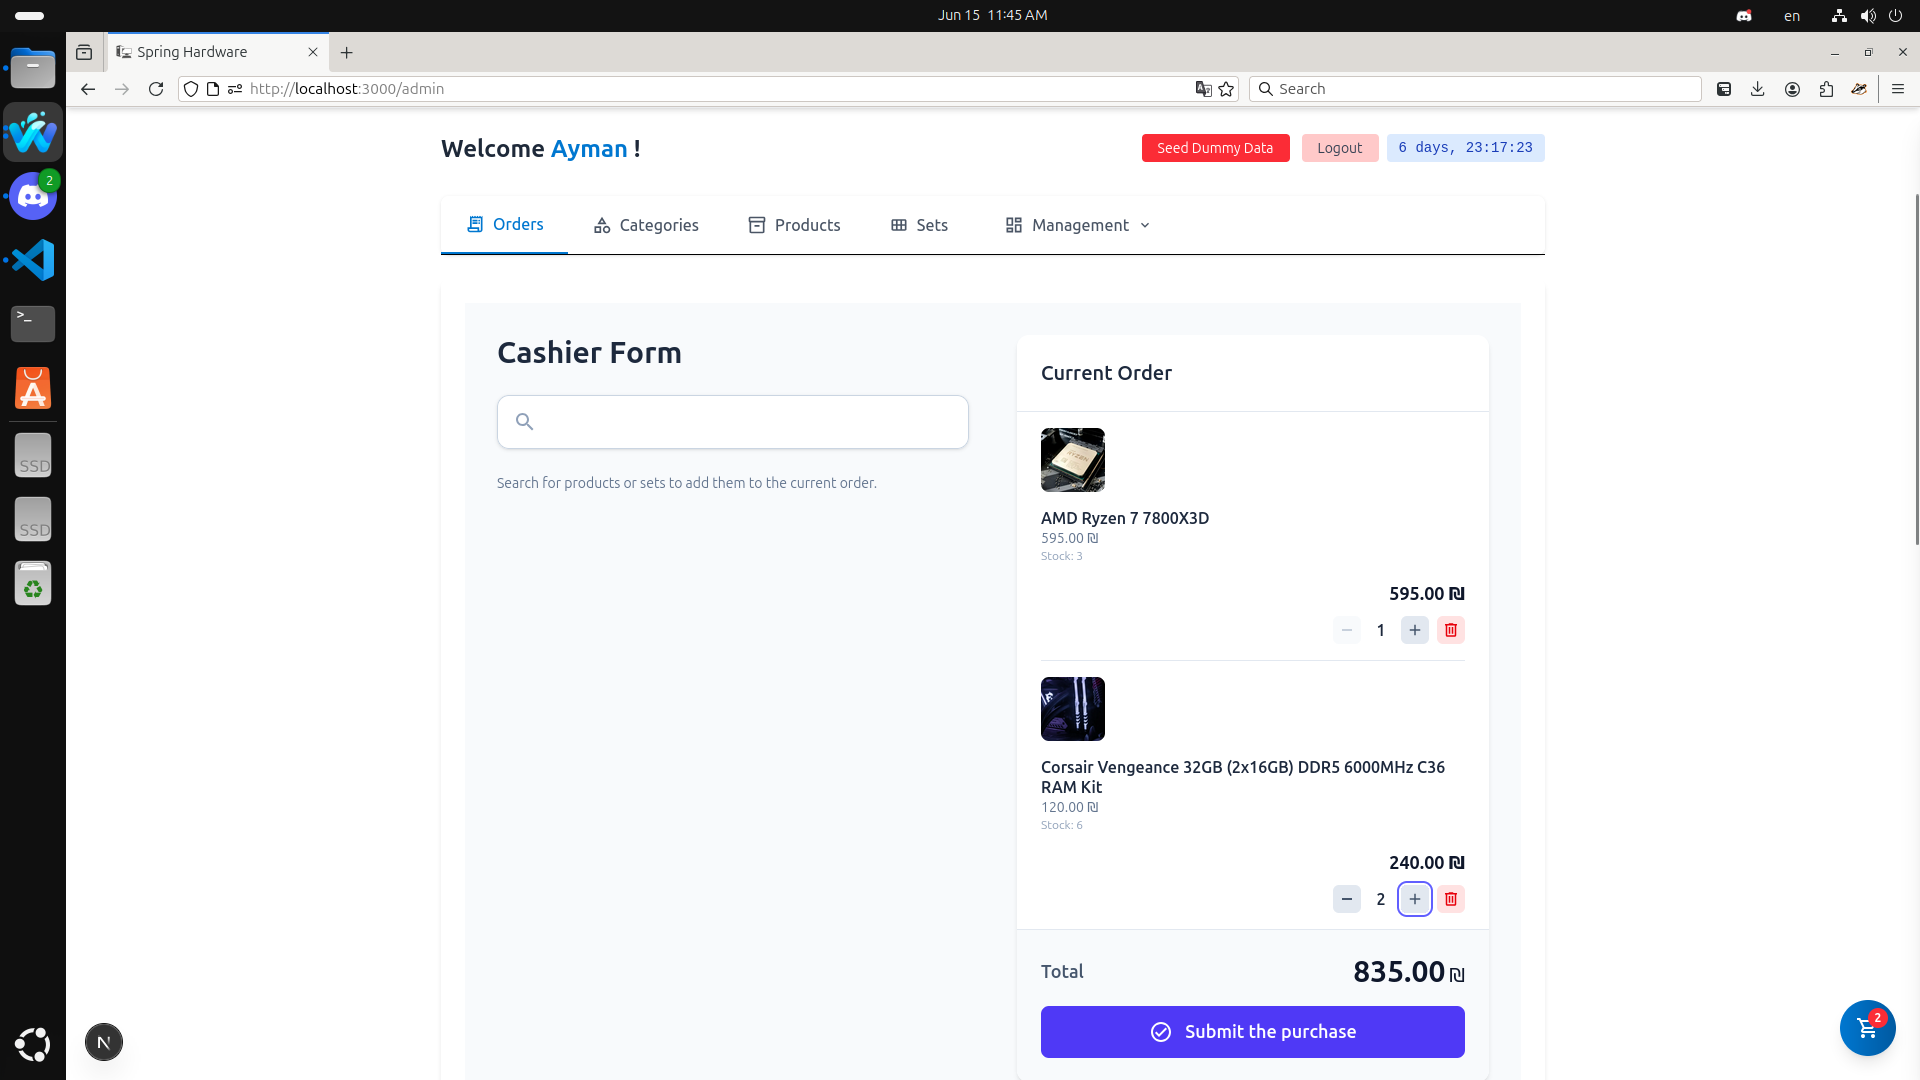
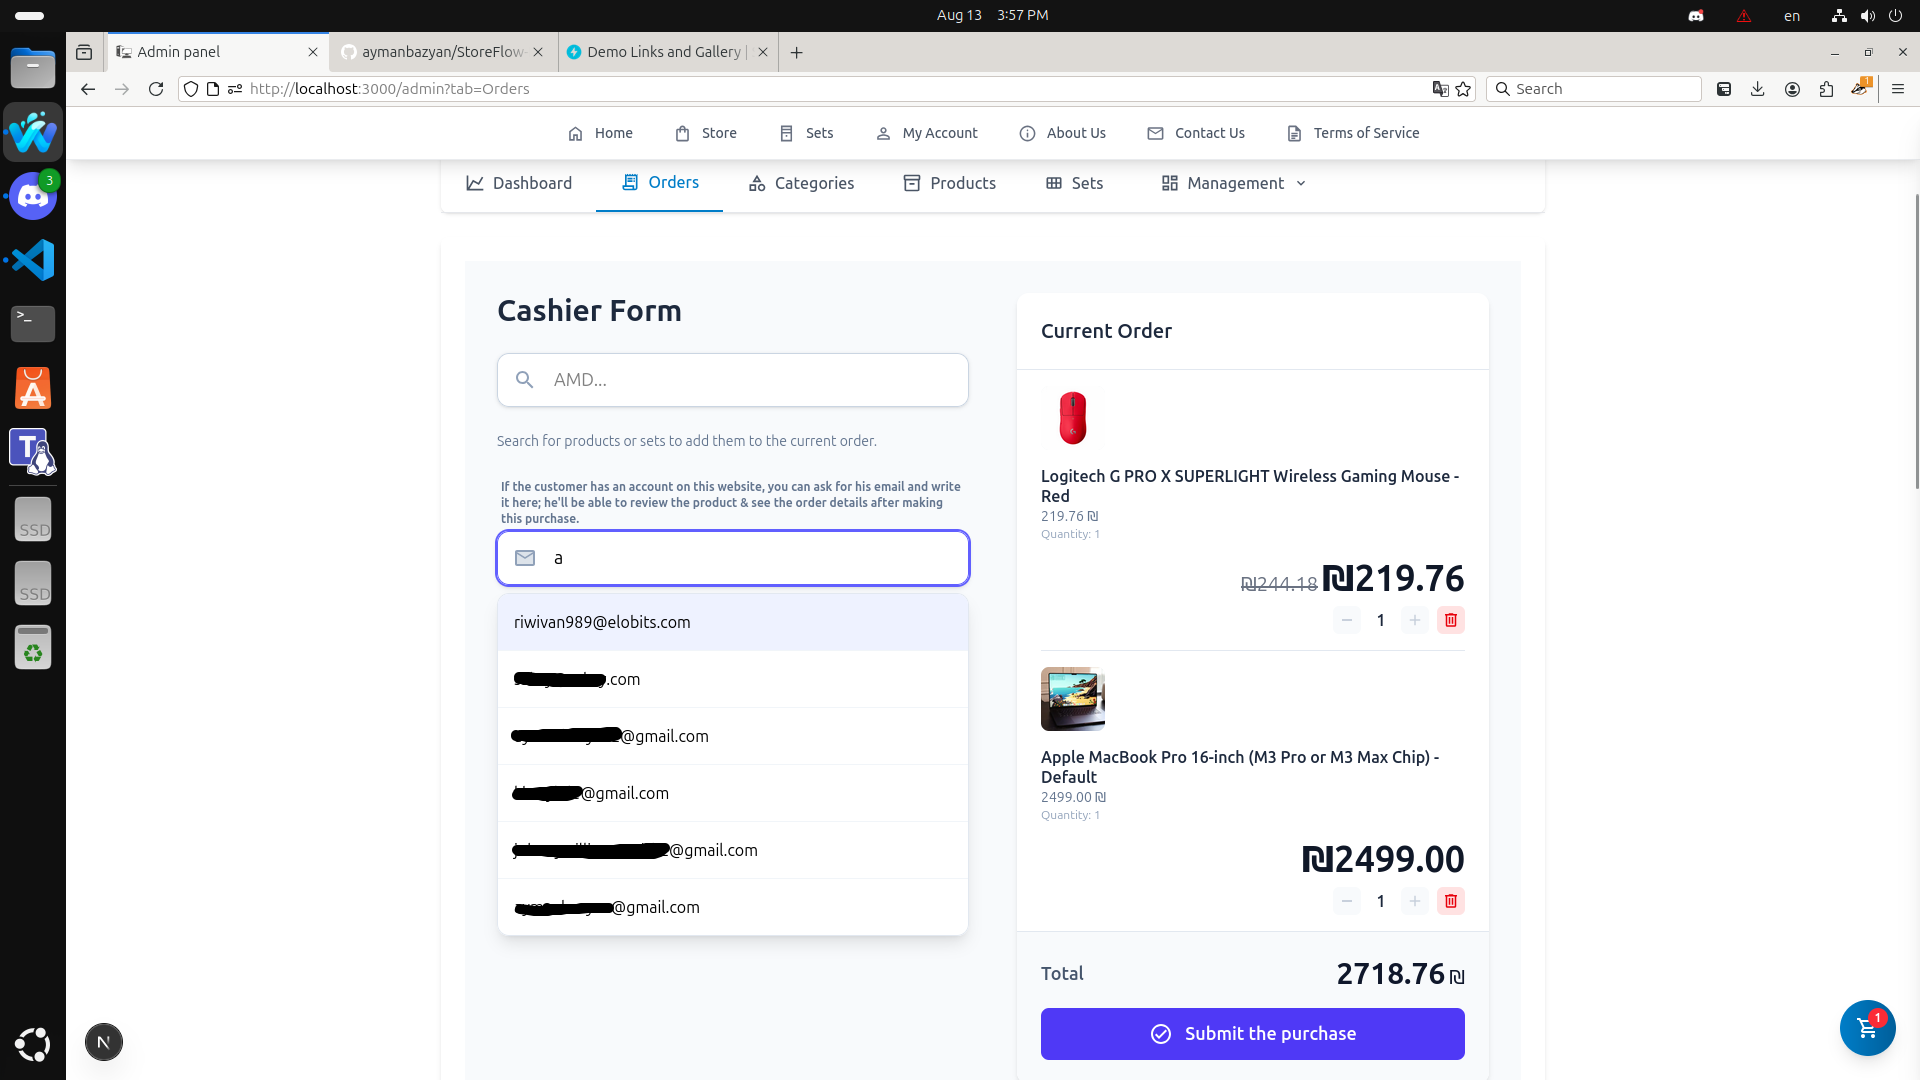
general improvements

diff --git a/docs/01-Overview/02-Tech-Stack-Concepts.md b/docs/01-Overview/02-Tech-Stack-Concepts.md
@@ -4,7 +4,7 @@
 
 - Frontend + Backend: Next.js v15.2.3 (App Router)
 
-- Database: PostgreSQL v16.9 + Prisma v6.13.0
+- Database: PostgreSQL v16.9 + Prisma v6.14.0
 
 - Styling: Tailwind CSS v4
 
@@ -545,10 +545,8 @@ model DiscountCodes {
   orders               Orders[]  @relation("OrderDiscountCode")
 
   @@index([slug])
-  @@index([is_active])
-  @@index([expires_at])
-  @@index([discount_type])
 }
+
 ```
 
 </details>
@@ -610,7 +608,7 @@ This project uses the **Next.js App Router**, which organizes the application fi
       - `backup/`: API endpoint to trigger a server backup.
       - `healthcheck/`: Slight API endpoint to check if the server is running (used in the mobile app).
       - `uploads/[...path]`: API endpoint to get uploaded files.
-      <!-- - `cron/`: Endpoints designed to be called by scheduled jobs (e.g., cleanup tasks). -->
+      - `cron/`: Endpoints designed to be called by scheduled jobs (e.g., cleanup tasks).
       - `/timeouts`: Endpoint to timeout Ips.
       - `tables/`: A generic, dynamic API for performing CRUD operations on database tables, likely used by the admin panel.
       - `user/`: API routes for user-specific actions like managing wishlists and orders.
@@ -646,4 +644,4 @@ This project uses the **Next.js App Router**, which organizes the application fi
 
 ---
 
-_Last updated on August 11, 2025 by Ayman._
+_Last updated on August 13, 2025 by Ayman._

diff --git a/docs/01-Overview/01-About.md b/docs/01-Overview/01-About.md
@@ -36,7 +36,7 @@ Admins have full control over the store's products, sales, and appearance.
 
 - **Financial Dashboard:** Track sales, profits, and key financial metrics.
 - **Order Management:** View, approve, or reject incoming orders. Admins can add a note explaining a rejection.
-- **Manual Order Entry:** Log offline or in-store purchases, which automatically updates inventory and sales data.
+- **Manual Order Entry:** Log offline or in-store purchases, which automatically updates inventory and sales data, and you can chose the customer's email to connect the purchase with his account, if he has an account on the website, allowing him to review the products or see the purchase details.
 
 #### **Marketing & Promotions**
 
@@ -93,7 +93,7 @@ A dedicated area for registered customers to manage their activity.
 
 #### **And there's more!**
 
-_Last updated on August 11, 2025 by Ayman._
+_Last updated on August 13, 2025 by Ayman._
 
 <!-- - **Real-time Notifications:** See new orders appear instantly without needing to refresh the page. -->
 <!-- - **Improved Loading:** Skeleton screens provide a faster, smoother browsing experience. -->

diff --git a/docs/01-Overview/03-Demo Links-and-Gallery.md b/docs/01-Overview/03-Demo Links-and-Gallery.md
@@ -321,4 +321,4 @@ This chart has fake records for testing purposes, unrelated to other cards.
 
 # There are even more details to see on the website!
 
-_Last updated on August 11, 2025 by Ayman._
+_Last updated on August 13, 2025 by Ayman._
